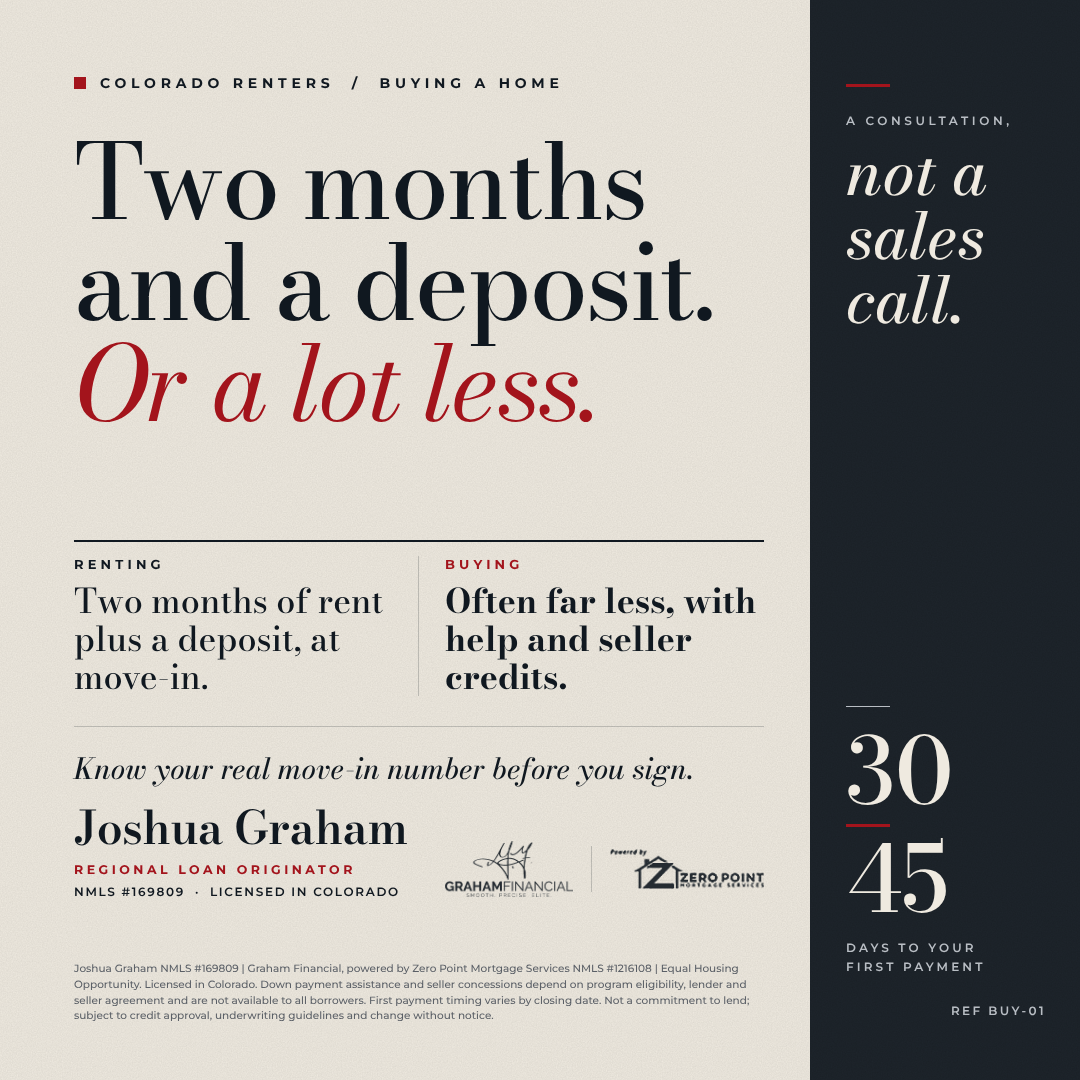
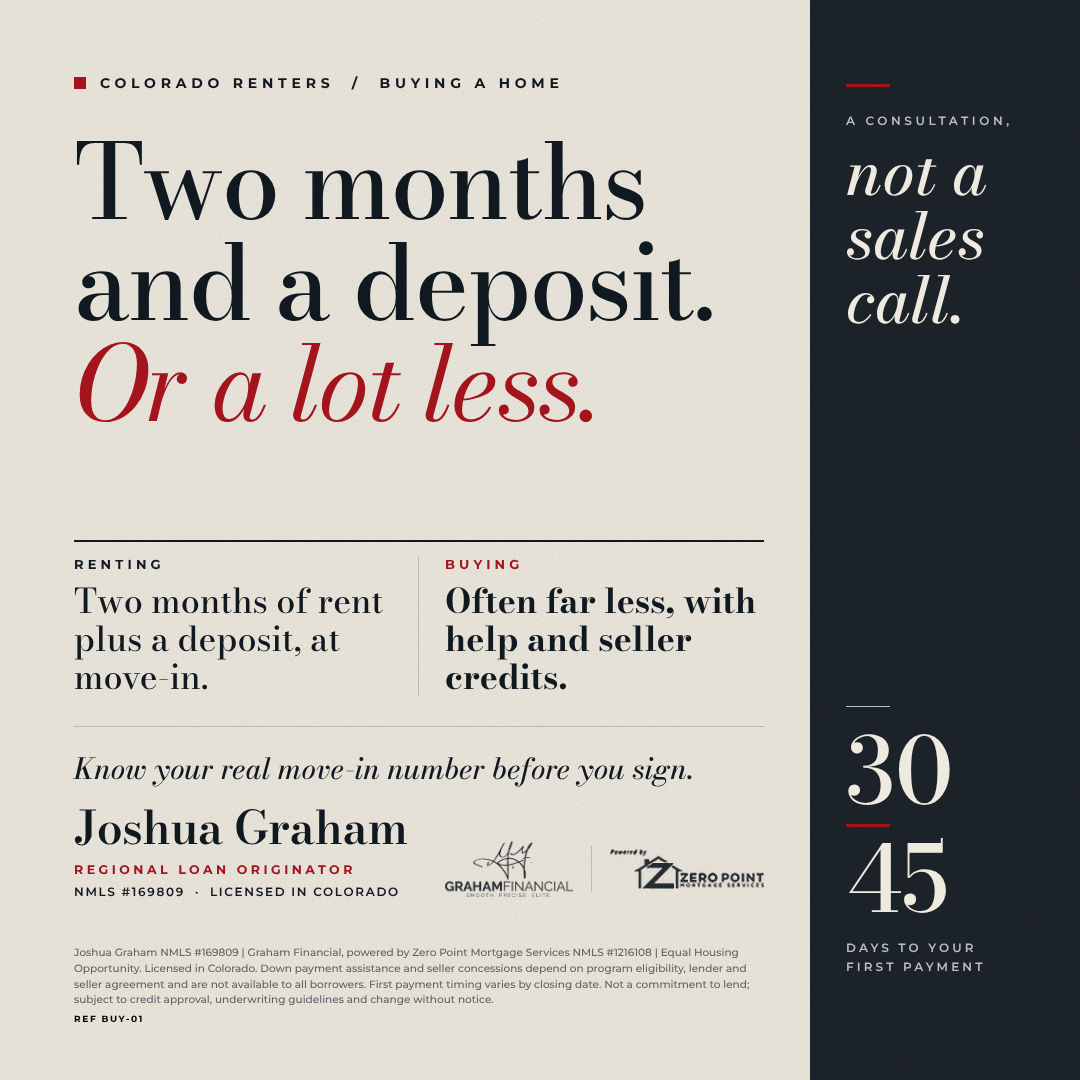
REF moved to footer (black, tiny); left-panel layout; add BUY-03 and AGT-04
Claude-Session: https://claude.ai/code/session_01BCcskEaN45pwtrM4t2VKHx

Changed region(s): [[0.0611, 0.8556, 0.7028, 0.9472], [0.8861, 0.9167, 0.9472, 0.9472]]

diff --git a/src/smart-money/data.js b/src/smart-money/data.js
@@ -1010,6 +1010,52 @@ I'm Joshua Graham, and I'd like to show you how I protect your clients so they c
       cta: "Take a few minutes with me. A consultation, not a sales call. Link in the post.",
     },
   },
+  {
+    ref: "BUY-03", bank: "consumer", name: "Rent Is a Bill. A Mortgage Is a Plan. (renters)", lender: "N/A — consultation; route to DPA / seller-credit scenarios",
+    audience: "consumer", license: "required", flyer: "/smart-money/flyers/BUY-03.png", footer: "consumer",
+    cta: `A few minutes with me. A consultation, not a sales call. It's free to find out 👉 ${BRAND.booking}`,
+    painPoints: ["renting", "priced-out"], magnet: "book-5", skool: "Homebuyers",
+    highlights: ["A lease pays for a place you never own", "A mortgage payment builds your equity", "First payment 30 to 45 days out"],
+    notes: "Elite look, panel on the left. No payment amounts, rates or down-payment % (Reg Z). ZPM compliance cleared the renter framing Nov 16.",
+    short: `Rent is a bill. A mortgage is a plan.
+
+One pays for a place you'll never own. The other builds equity for you, and your first payment is typically 30 to 45 days out.
+
+A few minutes with me and you'll see what your move would really take. A consultation, not a sales call.`,
+    long: `A lease is a bill: you pay for a place you'll never own. A mortgage is a plan, because the payment builds your equity.
+
+Depending on your situation, down payment assistance and seller credits can make the move-in far less than most renters expect, and the first payment typically comes 30 to 45 days after closing.
+
+I'd rather show you your real numbers than guess. A few minutes with me. A consultation, not a sales call.`,
+    video: {
+      title: "Rent is a bill. A mortgage is a plan.",
+      hook: "Rent is a bill. A mortgage is a plan.",
+      points: ["What a lease actually buys you", "How a mortgage payment builds your equity", "What a few minutes with me covers"],
+      cta: "Take a few minutes with me. A consultation, not a sales call. Link in the post.",
+    },
+  },
+  {
+    ref: "AGT-04", bank: "agents", name: "Agents: Clients Forget the Rate, Never the Closing", lender: "N/A",
+    audience: "agent", license: "none", flyer: "/smart-money/flyers/AGT-04.png", footer: "intro",
+    cta: `A few minutes with me on making closing day easy. A consultation, not a sales call 👉 ${BRAND.booking}`,
+    painPoints: [], magnet: "book-5", skool: "Agents",
+    highlights: ["The rate fades within a month", "The closing decides whether they refer you", "Consultation, not a sales call"],
+    notes: "Elite look, panel on the left, peacock palette.",
+    short: `Clients forget the rate. They never forget the closing.
+
+The rate is a number that fades within a month. The closing is the day they decide whether to refer you.
+
+A few minutes with me on making that day easy. A consultation, not a sales call.`,
+    long: `Your client won't remember their rate a month from now. They will remember how the closing felt, and that's the day they decide whether to refer you.
+
+My job is to make that day easy: numbers settled early, steady updates, no surprises. If you'd like to see how, take a few minutes with me. A consultation, not a sales call.`,
+    video: {
+      title: "Clients forget the rate. Never the closing.",
+      hook: "Your client won't remember their rate. They'll remember the closing.",
+      points: ["Why the rate fades and the closing sticks", "What an easy closing day takes", "What the consultation covers"],
+      cta: "Take a few minutes with me. A consultation, not a sales call. Link in the post.",
+    },
+  },
 ];
 
 // ---- Schedule: 7 days × 2 slots (8:30 AM / 12:30 PM ET). 8 investor / 6 consumer per week.

diff --git a/dist/index.html b/dist/index.html
@@ -7,7 +7,7 @@
     <meta name="theme-color" content="#1e6e4a" />
     <link rel="manifest" href="/manifest.json" />
     <title>Get Unlocked Producer</title>
-    <script type="module" crossorigin src="/assets/main-a921d86c.js"></script>
+    <script type="module" crossorigin src="/assets/main-e1bc386c.js"></script>
     <link rel="modulepreload" crossorigin href="/assets/supabase-f19bb01a.js">
   </head>
   <body>

diff --git a/tools/flyers/gen_elite.py b/tools/flyers/gen_elite.py
@@ -66,6 +66,16 @@ CARDS = {
         ledger_px=31,
         cta="A few minutes on how I protect your clients.", panel_bottom=TAGLINE, foot=FOOT_AGENT,
         photo=dict(file="joshua-park-smile.jpg", h=640, size=800, x=-494, y=-84)),
+    "BUY-03": dict(palette="scarlet", side="left", kicker="COLORADO RENTERS &nbsp;/&nbsp; BUYING A HOME",
+        h1=["Rent is a bill.", "A mortgage is"], h1_accent="a plan.", h1_px=92,
+        left=("THE LEASE", "A place you pay for and never own."),
+        right=("THE MORTGAGE", "A payment that builds your equity."),
+        cta="See what your move would really take.", panel_bottom=STAT_30_45, foot=FOOT_CONSUMER),
+    "AGT-04": dict(palette="peacock", side="left", kicker="REAL ESTATE AGENTS &nbsp;/&nbsp; REFERRAL PARTNERS",
+        h1=["Clients forget", "the rate."], h1_accent="Never the closing.", h1_px=88,
+        left=("THE RATE", "A number that fades within a month."),
+        right=("THE CLOSING", "The day they decide whether to refer you."),
+        cta="A few minutes on making that day easy.", panel_bottom=TAGLINE, foot=FOOT_AGENT),
 }
 
 def grain_url():
@@ -108,12 +118,11 @@ def page(ref, c):
                       f'<p style="margin-top:12px;font:500 italic 64px/1.0 B;color:{p["panel_text"]}">not a<br>sales<br>call.</p></div>'
                       f'<div style="position:absolute;right:0;bottom:104px;width:270px;padding:0 34px 0 36px;box-sizing:border-box">{bottom}</div>')
     gf = os.path.join(BRAND, "gf-logo-ink.png"); zp = os.path.join(BRAND, "zpm-logo-ink.png")
-    return f'''<!doctype html><html><head><meta charset="utf-8"><style>{ff}body{{margin:0}}p,h1{{margin:0}}*{{font-variant-numeric:lining-nums !important;font-feature-settings:"lnum" 1 !important}}</style></head><body>
+    html_out = f'''<!doctype html><html><head><meta charset="utf-8"><style>{ff}body{{margin:0}}p,h1{{margin:0}}*{{font-variant-numeric:lining-nums !important;font-feature-settings:"lnum" 1 !important}}</style></head><body>
 <div style="width:1080px;height:1080px;position:relative;overflow:hidden;font-family:M">
 <div style="position:absolute;inset:0;background:{p["bg"]}"></div>{grain(.16)}
 <div style="position:absolute;right:0;top:0;bottom:0;width:270px;background:{p["panel"]}"></div><div style="position:absolute;right:0;top:0;bottom:0;width:270px">{grain(.3)}</div>
 {panel_body}
-<p style="position:absolute;right:34px;bottom:62px;font:600 12px M;letter-spacing:.2em;color:{p["panel_mute"]}">REF {ref}</p>
 <div style="position:absolute;left:74px;top:74px;display:flex;align-items:center;gap:14px"><div style="width:12px;height:12px;background:{p["accent"]}"></div><p style="font:700 14px M;letter-spacing:.34em;color:{p["ink"]};white-space:nowrap">{c["kicker"]}</p></div>
 <h1 style="position:absolute;left:74px;top:132px;font:500 {c.get("h1_px",104)}px/0.97 B;color:{p["ink"]};letter-spacing:-0.02em">{h1}</h1>
 <div style="position:absolute;left:74px;width:690px;top:540px;border-top:2px solid {p["ink"]}"></div>
@@ -127,8 +136,11 @@ def page(ref, c):
 <p style="margin-top:12px;font:700 12.5px M;letter-spacing:.28em;color:{p["accent"]};white-space:nowrap">REGIONAL LOAN ORIGINATOR</p>
 <p style="margin-top:7px;font:600 12px M;letter-spacing:.14em;color:{p["ink"]};white-space:nowrap">NMLS #169809 &nbsp;&middot;&nbsp; LICENSED IN COLORADO</p></div>
 <div style="display:flex;align-items:center;gap:18px;padding-bottom:2px;flex:none"><img src="file://{gf}" style="height:56px;display:block;opacity:.9"><div style="width:1px;height:46px;background:{p["ink"]}33"></div><img src="file://{zp}" style="height:40px;display:block;opacity:.9"></div></div>
-<p style="position:absolute;left:74px;width:690px;bottom:56px;font:500 10.5px/1.5 M;color:{p["muted"]}">{c["foot"]}</p>
+<p style="position:absolute;left:74px;width:690px;bottom:56px;font:500 10.5px/1.5 M;color:{p["muted"]}">{c["foot"]}<span style="display:block;margin-top:5px;font:700 9px M;letter-spacing:.18em;color:#000">REF {ref}</span></p>
 </div></body></html>'''
+    if c.get("side") == "left":
+        html_out = html_out.replace("right:0;", "left:0;").replace("left:74px", "left:344px")
+    return html_out
 
 def render(ref, c, outdir):
     tmp = tempfile.mkdtemp()
